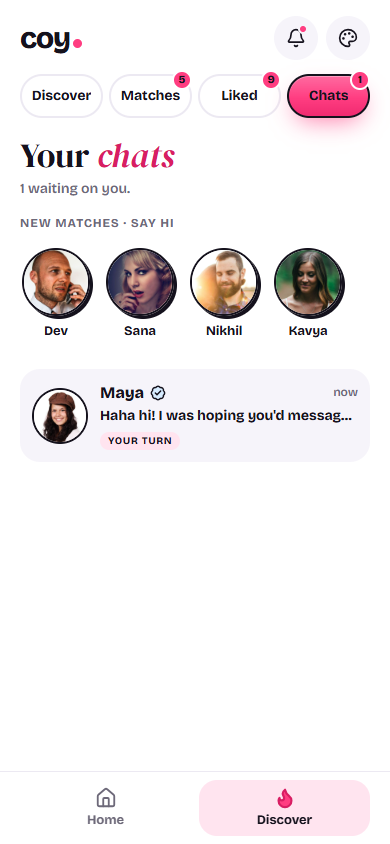
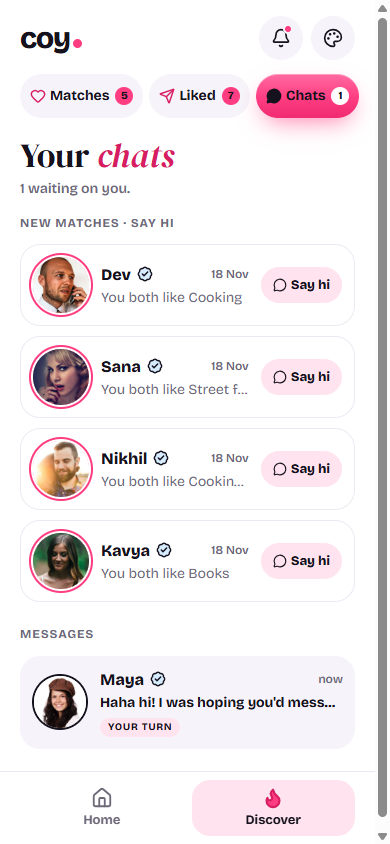
style(ui): refresh action buttons, tabs and the new-matches list

diff --git a/components/discover/section-tabs.tsx b/components/discover/section-tabs.tsx
@@ -1,44 +1,53 @@
 "use client";
 
+import { Heart, HeartHandshake, MessageCircle } from "lucide-react";
 import Link from "next/link";
 import type { Counts } from "./use-counts";
 
 export type Section = "discover" | "matches" | "liked" | "chats";
 
+/** Discover itself lives in the bottom tab bar, so these are its sub-sections only. */
 const TABS = [
-  { id: "discover", href: "/discover", label: "Discover", count: () => 0 },
-  { id: "matches", href: "/discover/matches", label: "Matches", count: (c: Counts) => c.matches },
+  { id: "matches", href: "/discover/matches", label: "Matches", Icon: HeartHandshake, count: (c: Counts) => c.matches },
   // "Liked" = people YOU liked (pending). There is deliberately no "who liked you" tab.
-  { id: "liked", href: "/discover/liked", label: "Liked", count: (c: Counts) => c.liked },
-  { id: "chats", href: "/discover/chats", label: "Chats", count: (c: Counts) => c.yourTurn },
+  { id: "liked", href: "/discover/liked", label: "Liked", Icon: Heart, count: (c: Counts) => c.liked },
+  { id: "chats", href: "/discover/chats", label: "Chats", Icon: MessageCircle, count: (c: Counts) => c.yourTurn },
 ] as const;
 
-/** Pill tabs under the header (Discover / Matches / Liked / Chats). Scrolls sideways on narrow phones. */
+/**
+ * Pill tabs under the header. Soft fills, no outlines: the active one is the pink
+ * gradient, the rest are quiet. The keyboard focus ring only appears for keyboard
+ * users (:focus-visible), never on tap.
+ */
 export function SectionTabs({ active, counts }: { active: Section; counts: Counts | null }) {
   return (
     <nav aria-label="Discover sections" className="px-5 pt-0.5 pb-1">
-      <ul className="grid grid-cols-4 gap-1.5">
-        {TABS.map(({ id, href, label, count }) => {
+      <ul className="flex gap-1.5">
+        {TABS.map(({ id, href, label, Icon, count }) => {
           const isActive = id === active;
           const n = counts ? count(counts) : 0;
           return (
-            <li key={id} className="min-w-0">
+            <li key={id} className="flex-auto">
               <Link
                 href={href}
                 aria-current={isActive ? "page" : undefined}
                 data-testid={id === "matches" ? "matches-link" : `tab-${id}`}
-                className={`focus-ring relative flex h-11 items-center justify-center gap-1 rounded-full px-1 text-[14px] font-bold whitespace-nowrap transition-colors duration-150 ${
-                  isActive
-                    ? "pink-glow border-(length:--bw) border-line"
-                    : "border-(length:--bw) border-hairline bg-surface text-ink hover:border-line"
+                className={`focus-ring relative flex h-11 items-center justify-center gap-1 rounded-full px-2.5 text-[14px] font-bold whitespace-nowrap outline-none transition-[background-color,box-shadow,transform] duration-200 active:scale-[0.97] ${
+                  isActive ? "pink-glow" : "bg-soft text-ink hover:bg-hairline"
                 }`}
               >
-                <span className="truncate">{label}</span>
+                <Icon
+                  className={`size-4 shrink-0 ${isActive ? "fill-current" : "text-accent-strong"}`}
+                  strokeWidth={2.2}
+                  aria-hidden
+                />
+                <span>{label}</span>
                 {n > 0 && (
                   <span
                     data-testid={id === "matches" ? "match-count" : `count-${id}`}
-                    aria-label={`${n}`}
-                    className="absolute -top-1.5 -right-0.5 min-w-[20px] rounded-full border-2 border-bg bg-accent px-1 text-center text-[11px] leading-[16px] font-extrabold text-accent-ink"
+                    className={`ml-0.5 min-w-[18px] rounded-full px-1 text-center text-[11px] leading-[18px] font-extrabold ${
+                      isActive ? "bg-white text-ink" : "bg-accent text-accent-ink"
+                    }`}
                   >
                     {n}
                   </span>

diff --git a/components/discover/discover-screen.tsx b/components/discover/discover-screen.tsx
@@ -302,16 +302,16 @@ export function DiscoverScreen({ canReset }: { canReset: boolean }) {
       </section>
 
       {/* Actions: profile · pass · LIKE · filters */}
-      <div className="flex items-center justify-center gap-4 pt-2 pb-1">
+      <div className="flex items-center justify-center gap-5 pt-3 pb-2">
         <button
           type="button"
           data-testid="info-button"
           aria-label={top ? `Open ${top.name}'s full profile` : "Open profile"}
           disabled={!top || busy || !!match}
           onClick={() => setSheet("profile")}
-          className="sticker pressable focus-ring flex size-14 items-center justify-center rounded-full!"
+          className="fab focus-ring size-[50px] text-muted hover:text-ink"
         >
-          <Info className="size-6" aria-hidden />
+          <Info className="size-[22px]" strokeWidth={2.2} aria-hidden />
         </button>
         <button
           type="button"
@@ -319,9 +319,9 @@ export function DiscoverScreen({ canReset }: { canReset: boolean }) {
           aria-label={top ? `Pass on ${top.name}` : "Pass"}
           disabled={locked}
           onClick={() => cardRef.current?.swipe("PASS")}
-          className="sticker pressable focus-ring flex size-[68px] items-center justify-center rounded-full!"
+          className="fab focus-ring size-16"
         >
-          <X className="size-8" strokeWidth={3} aria-hidden />
+          <X className="size-8 text-[#f2546b]" strokeWidth={2.75} aria-hidden />
         </button>
         <button
           type="button"
@@ -329,20 +329,20 @@ export function DiscoverScreen({ canReset }: { canReset: boolean }) {
           aria-label={top ? `Like ${top.name}` : "Like"}
           disabled={locked}
           onClick={() => cardRef.current?.swipe("LIKE")}
-          className="pink-glow pressable focus-ring flex size-[84px] items-center justify-center rounded-full border-(length:--bw) border-line"
+          className="fab fab-like focus-ring size-[76px]"
         >
-          <Heart className="size-10 fill-surface text-ink" strokeWidth={1.75} aria-hidden />
+          <Heart className="size-9 fill-white text-white drop-shadow-[0_2px_3px_rgba(150,0,60,0.35)]" strokeWidth={1.5} aria-hidden />
         </button>
         <button
           type="button"
           onClick={() => setSheet("filters")}
           data-testid="filters-button"
           aria-label={filtered ? "Filters (on)" : "Filters"}
-          className="sticker pressable focus-ring relative flex size-14 items-center justify-center rounded-full!"
+          className="fab focus-ring relative size-[50px] text-muted hover:text-ink"
         >
-          <SlidersHorizontal className="size-6" aria-hidden />
+          <SlidersHorizontal className="size-[22px]" strokeWidth={2.2} aria-hidden />
           {filtered && (
-            <span aria-hidden className="absolute -top-0.5 -right-0.5 size-3.5 rounded-full border-2 border-surface bg-accent" />
+            <span aria-hidden className="absolute top-0.5 right-0.5 size-3 rounded-full border-2 border-surface bg-accent" />
           )}
         </button>
       </div>

diff --git a/components/matches/section-screens.tsx b/components/matches/section-screens.tsx
@@ -322,26 +322,43 @@ export function ChatsScreen() {
       {state.status === "error" && <ErrorBox message={state.message} onRetry={() => void reload()} />}
 
       {fresh.length > 0 && (
-        <div className="mb-5">
+        <div className="mb-6">
           <h2 className="micro-label text-muted">New matches · say hi</h2>
-          <ul className="no-scrollbar -mx-5 mt-3 flex gap-3 overflow-x-auto px-5 pt-1 pb-2">
+          <ul className="mt-3 flex flex-col gap-2.5" data-testid="new-matches">
             {fresh.map((m) => (
-              <li key={m.id} className="shrink-0">
+              <li key={m.id}>
                 <Link
                   href={`/discover/matches/${m.id}`}
                   data-testid="new-match"
-                  className="focus-ring flex w-[72px] flex-col items-center gap-1.5 rounded-[18px]"
+                  data-profile-id={m.profile.id}
+                  className="focus-ring flex items-center gap-3 rounded-[20px] border border-hairline bg-surface p-3 transition-colors hover:bg-soft"
                 >
-                  <span className="relative block size-[68px] overflow-hidden rounded-full border-(length:--bw) border-line shadow-(--pop)">
+                  <span className="relative size-14 shrink-0 overflow-hidden rounded-full ring-2 ring-accent ring-offset-2 ring-offset-surface">
                     <Photo src={m.profile.photoUrl} name={m.profile.name} className="absolute inset-0 size-full" eager />
                   </span>
-                  <span className="max-w-full truncate text-[13px] font-bold">{m.profile.name}</span>
+                  <span className="min-w-0 flex-1">
+                    <span className="flex items-center gap-1.5">
+                      <span className="truncate text-[16px] font-extrabold">{m.profile.name}</span>
+                      {m.profile.verified && <VerifiedBadge className="size-4" />}
+                      <span className="ml-auto shrink-0 text-[12px] font-semibold text-muted">{formatDay(m.createdAt)}</span>
+                    </span>
+                    <span className="mt-0.5 block truncate text-[14px] text-muted">
+                      {m.sharedInterests.length
+                        ? `You both like ${m.sharedInterests.slice(0, 2).join(" & ")}`
+                        : "You matched. Say hi!"}
+                    </span>
+                  </span>
+                  <span className="inline-flex h-9 shrink-0 items-center gap-1 rounded-full bg-accent-soft px-3 text-[13px] font-extrabold text-ink">
+                    <MessageCircle className="size-3.5" aria-hidden /> Say hi
+                  </span>
                 </Link>
               </li>
             ))}
           </ul>
         </div>
       )}
+
+      {convos.length > 0 && <h2 className="micro-label mb-3 text-muted">Messages</h2>}
 
       {state.status === "ready" && convos.length === 0 && (
         <Empty

diff --git a/app/globals.css b/app/globals.css
@@ -242,6 +242,57 @@ body {
     inset 0 1px 0 rgba(255, 255, 255, 0.35);
 }
 
+/* Floating action button: soft layered shadow, hairline ring, lift on hover, spring on press. */
+@utility fab {
+  display: flex;
+  align-items: center;
+  justify-content: center;
+  border-radius: 999px;
+  background: var(--surface);
+  color: var(--ink);
+  box-shadow:
+    0 0 0 1px var(--hairline),
+    0 2px 4px -1px rgba(21, 18, 29, 0.08),
+    0 12px 24px -10px rgba(21, 18, 29, 0.28);
+  cursor: pointer;
+  transition:
+    transform 0.2s cubic-bezier(0.2, 0.8, 0.2, 1),
+    box-shadow 0.2s ease,
+    background-color 0.2s ease,
+    opacity 0.2s;
+  &:hover:not(:disabled) {
+    transform: translateY(-2px);
+    box-shadow:
+      0 0 0 1px var(--hairline),
+      0 4px 8px -2px rgba(21, 18, 29, 0.1),
+      0 18px 30px -12px rgba(21, 18, 29, 0.32);
+  }
+  &:active:not(:disabled) {
+    transform: scale(0.92);
+    transition-duration: 0.08s;
+  }
+  &:disabled {
+    opacity: 0.4;
+    cursor: not-allowed;
+  }
+}
+
+/* The hero Like button: pink gradient + coloured glow, no outline. */
+@utility fab-like {
+  background: radial-gradient(120% 120% at 30% 20%, #ff86b1 0%, var(--accent) 45%, #e91e63 100%);
+  color: #fff;
+  box-shadow:
+    inset 0 1px 0 rgba(255, 255, 255, 0.45),
+    0 14px 28px -10px color-mix(in srgb, var(--accent) 75%, transparent),
+    0 4px 10px -4px rgba(233, 30, 99, 0.5);
+  &:hover:not(:disabled) {
+    box-shadow:
+      inset 0 1px 0 rgba(255, 255, 255, 0.45),
+      0 20px 36px -12px color-mix(in srgb, var(--accent) 85%, transparent),
+      0 6px 12px -4px rgba(233, 30, 99, 0.55);
+  }
+}
+
 /* Frosted chip over a photo. */
 @utility glass {
   background: rgba(20, 16, 26, 0.42);

diff --git a/README.md b/README.md
@@ -68,7 +68,7 @@ The Discover layout follows a supplied mockup: logo with icon buttons, pill sect
 
 | Mockup | Built as | Why |
 |---|---|---|
-| Tabs: Discover · Matches · **Likes 24** · Chats | Discover · Matches · **Liked** · Chats | "Likes 24" means *who liked you*, the one thing Coy never reveals. **Liked** lists the people **you** liked who haven't matched yet (`GET /api/likes/sent`). That is your own data and only you can see it. |
+| Tabs: Discover · Matches · **Likes 24** · Chats | Matches · **Liked** · Chats (Discover itself is the bottom tab) | "Likes 24" means *who liked you*, the one thing Coy never reveals. **Liked** lists the people **you** liked who haven't matched yet (`GET /api/likes/sent`). That is your own data and only you can see it. |
 | ↺ Undo · ★ Super-like | ⓘ Profile · ⚙ Filters | Undo would break the brief ("a profile that has been swiped on must never appear again"). A Super-like reveals one-sided interest. |
 | "12K+ active now" | Avatars of the next people in your deck + "32 new faces" | Real data instead of an invented number, and no activity tracking. |
 | Interest photo strip | The profile's prompt | There are no per-interest photos, and we don't fabricate them. |
